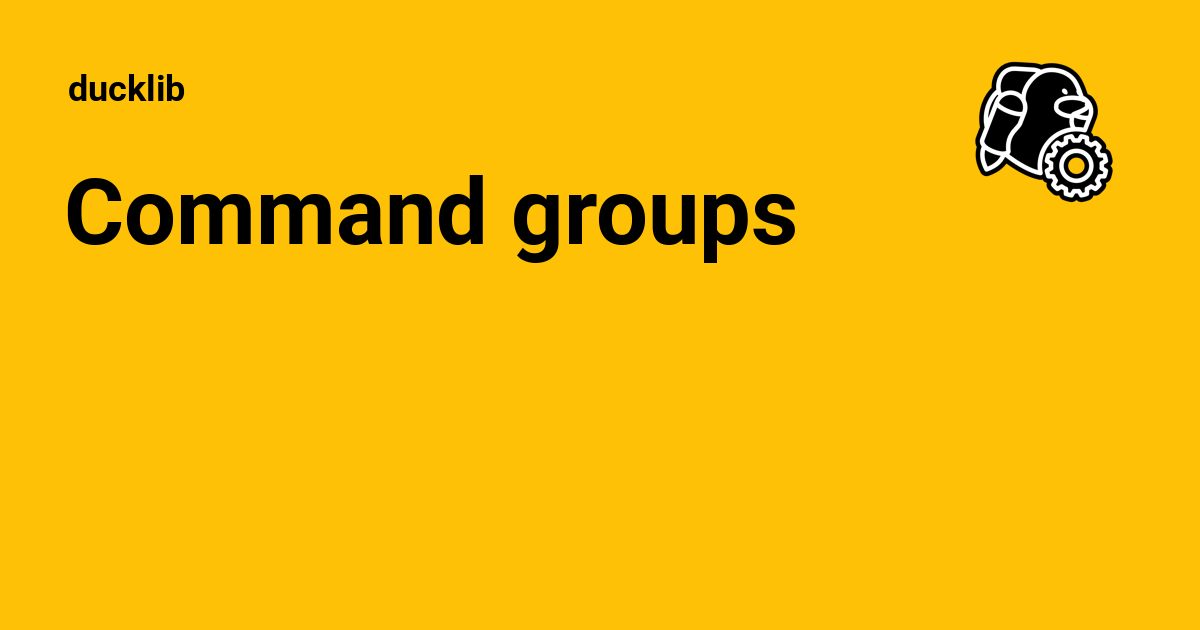
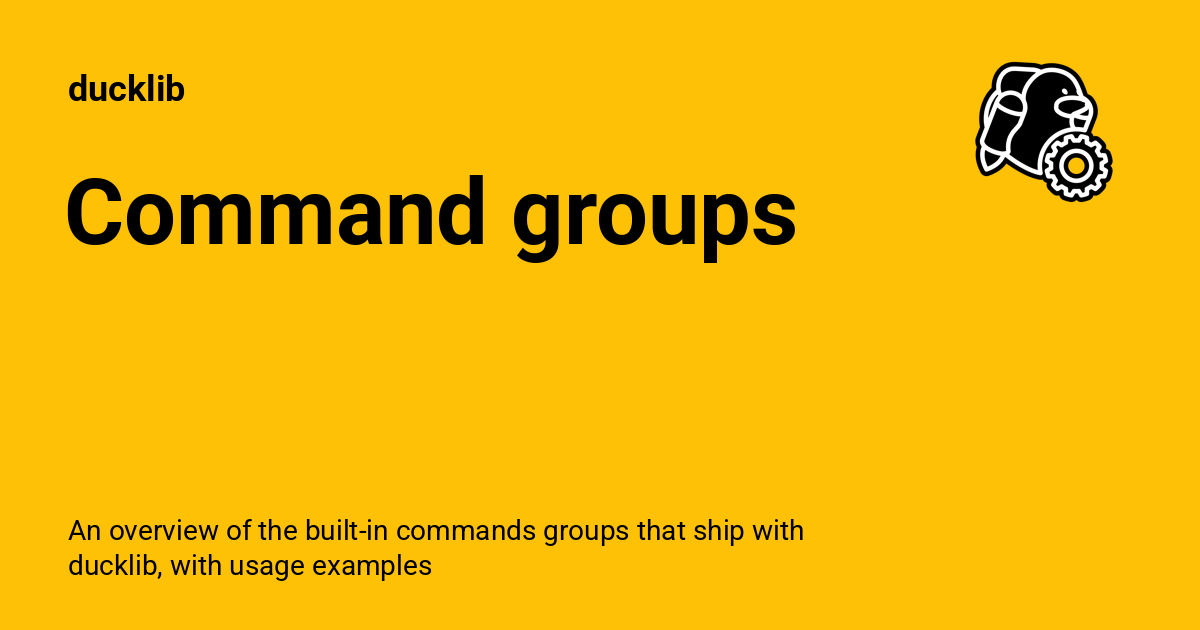
Deployed 01ee23f with MkDocs version: 1.6.1

Changed region(s): [[0.0617, 0.8143, 0.6783, 0.9349]]

diff --git a/commands/groups/index.html b/commands/groups/index.html
@@ -6,6 +6,8 @@
       <meta charset="utf-8">
       <meta name="viewport" content="width=device-width,initial-scale=1">
       
+        <meta name="description" content="An overview of the built-in commands groups that ship with ducklib, with usage examples">
+      
       
       
         <link rel="canonical" href="https://escape-velocity-14343.github.io/ducklib/commands/groups/">
@@ -61,7 +63,7 @@
       
         <meta  property="og:title"  content="Command groups - ducklib" >
       
-        <meta  property="og:description"  content="None" >
+        <meta  property="og:description"  content="An overview of the built-in commands groups that ship with ducklib, with usage examples" >
       
         <meta  property="og:image"  content="https://escape-velocity-14343.github.io/ducklib/assets/images/social/commands/groups.png" >
       
@@ -77,7 +79,7 @@
       
         <meta  name="twitter:title"  content="Command groups - ducklib" >
       
-        <meta  name="twitter:description"  content="None" >
+        <meta  name="twitter:description"  content="An overview of the built-in commands groups that ship with ducklib, with usage examples" >
       
         <meta  name="twitter:image"  content="https://escape-velocity-14343.github.io/ducklib/assets/images/social/commands/groups.png" >
       

diff --git a/commands/builtin/index.html b/commands/builtin/index.html
@@ -6,6 +6,8 @@
       <meta charset="utf-8">
       <meta name="viewport" content="width=device-width,initial-scale=1">
       
+        <meta name="description" content="An overview of the built-in commands that ship with ducklib, with usage examples">
+      
       
       
         <link rel="canonical" href="https://escape-velocity-14343.github.io/ducklib/commands/builtin/">
@@ -61,7 +63,7 @@
       
         <meta  property="og:title"  content="Built-in commands - ducklib" >
       
-        <meta  property="og:description"  content="None" >
+        <meta  property="og:description"  content="An overview of the built-in commands that ship with ducklib, with usage examples" >
       
         <meta  property="og:image"  content="https://escape-velocity-14343.github.io/ducklib/assets/images/social/commands/builtin.png" >
       
@@ -77,7 +79,7 @@
       
         <meta  name="twitter:title"  content="Built-in commands - ducklib" >
       
-        <meta  name="twitter:description"  content="None" >
+        <meta  name="twitter:description"  content="An overview of the built-in commands that ship with ducklib, with usage examples" >
       
         <meta  name="twitter:image"  content="https://escape-velocity-14343.github.io/ducklib/assets/images/social/commands/builtin.png" >
       

diff --git a/ftc/hardware_map/index.html b/ftc/hardware_map/index.html
@@ -6,6 +6,8 @@
       <meta charset="utf-8">
       <meta name="viewport" content="width=device-width,initial-scale=1">
       
+        <meta name="description" content="An overview of how hardware maps work in ducklib">
+      
       
       
         <link rel="canonical" href="https://escape-velocity-14343.github.io/ducklib/ftc/hardware_map/">
@@ -61,7 +63,7 @@
       
         <meta  property="og:title"  content="Hardware map extensions - ducklib" >
       
-        <meta  property="og:description"  content="None" >
+        <meta  property="og:description"  content="An overview of how hardware maps work in ducklib" >
       
         <meta  property="og:image"  content="https://escape-velocity-14343.github.io/ducklib/assets/images/social/ftc/hardware_map.png" >
       
@@ -77,7 +79,7 @@
       
         <meta  name="twitter:title"  content="Hardware map extensions - ducklib" >
       
-        <meta  name="twitter:description"  content="None" >
+        <meta  name="twitter:description"  content="An overview of how hardware maps work in ducklib" >
       
         <meta  name="twitter:image"  content="https://escape-velocity-14343.github.io/ducklib/assets/images/social/ftc/hardware_map.png" >
       

diff --git a/ftc/gamepad/index.html b/ftc/gamepad/index.html
@@ -6,6 +6,8 @@
       <meta charset="utf-8">
       <meta name="viewport" content="width=device-width,initial-scale=1">
       
+        <meta name="description" content="An overview of how gamepads work in ducklib">
+      
       
       
         <link rel="canonical" href="https://escape-velocity-14343.github.io/ducklib/ftc/gamepad/">
@@ -61,7 +63,7 @@
       
         <meta  property="og:title"  content="Gamepad extensions - ducklib" >
       
-        <meta  property="og:description"  content="None" >
+        <meta  property="og:description"  content="An overview of how gamepads work in ducklib" >
       
         <meta  property="og:image"  content="https://escape-velocity-14343.github.io/ducklib/assets/images/social/ftc/gamepad.png" >
       
@@ -77,7 +79,7 @@
       
         <meta  name="twitter:title"  content="Gamepad extensions - ducklib" >
       
-        <meta  name="twitter:description"  content="None" >
+        <meta  name="twitter:description"  content="An overview of how gamepads work in ducklib" >
       
         <meta  name="twitter:image"  content="https://escape-velocity-14343.github.io/ducklib/assets/images/social/ftc/gamepad.png" >
       

diff --git a/ftc/dashboard/index.html b/ftc/dashboard/index.html
@@ -6,6 +6,8 @@
       <meta charset="utf-8">
       <meta name="viewport" content="width=device-width,initial-scale=1">
       
+        <meta name="description" content="How ducklib integrates FTC Dashboard">
+      
       
       
         <link rel="canonical" href="https://escape-velocity-14343.github.io/ducklib/ftc/dashboard/">
@@ -61,7 +63,7 @@
       
         <meta  property="og:title"  content="FTC Dashboard integration - ducklib" >
       
-        <meta  property="og:description"  content="None" >
+        <meta  property="og:description"  content="How ducklib integrates FTC Dashboard" >
       
         <meta  property="og:image"  content="https://escape-velocity-14343.github.io/ducklib/assets/images/social/ftc/dashboard.png" >
       
@@ -77,7 +79,7 @@
       
         <meta  name="twitter:title"  content="FTC Dashboard integration - ducklib" >
       
-        <meta  name="twitter:description"  content="None" >
+        <meta  name="twitter:description"  content="How ducklib integrates FTC Dashboard" >
       
         <meta  name="twitter:image"  content="https://escape-velocity-14343.github.io/ducklib/assets/images/social/ftc/dashboard.png" >
       

diff --git a/commands/index.html b/commands/index.html
@@ -6,6 +6,8 @@
       <meta charset="utf-8">
       <meta name="viewport" content="width=device-width,initial-scale=1">
       
+        <meta name="description" content="An overview of how commands work in ducklib">
+      
       
       
         <link rel="canonical" href="https://escape-velocity-14343.github.io/ducklib/commands/">
@@ -61,7 +63,7 @@
       
         <meta  property="og:title"  content="Commands - ducklib" >
       
-        <meta  property="og:description"  content="None" >
+        <meta  property="og:description"  content="An overview of how commands work in ducklib" >
       
         <meta  property="og:image"  content="https://escape-velocity-14343.github.io/ducklib/assets/images/social/commands/index.png" >
       
@@ -77,7 +79,7 @@
       
         <meta  name="twitter:title"  content="Commands - ducklib" >
       
-        <meta  name="twitter:description"  content="None" >
+        <meta  name="twitter:description"  content="An overview of how commands work in ducklib" >
       
         <meta  name="twitter:image"  content="https://escape-velocity-14343.github.io/ducklib/assets/images/social/commands/index.png" >
       

diff --git a/triggers/index.html b/triggers/index.html
@@ -6,6 +6,8 @@
       <meta charset="utf-8">
       <meta name="viewport" content="width=device-width,initial-scale=1">
       
+        <meta name="description" content="An overview of how triggers work in ducklib">
+      
       
       
         <link rel="canonical" href="https://escape-velocity-14343.github.io/ducklib/triggers/">
@@ -59,7 +61,7 @@
       
         <meta  property="og:title"  content="Triggers - ducklib" >
       
-        <meta  property="og:description"  content="None" >
+        <meta  property="og:description"  content="An overview of how triggers work in ducklib" >
       
         <meta  property="og:image"  content="https://escape-velocity-14343.github.io/ducklib/assets/images/social/triggers/index.png" >
       
@@ -75,7 +77,7 @@
       
         <meta  name="twitter:title"  content="Triggers - ducklib" >
       
-        <meta  name="twitter:description"  content="None" >
+        <meta  name="twitter:description"  content="An overview of how triggers work in ducklib" >
       
         <meta  name="twitter:image"  content="https://escape-velocity-14343.github.io/ducklib/assets/images/social/triggers/index.png" >
       
